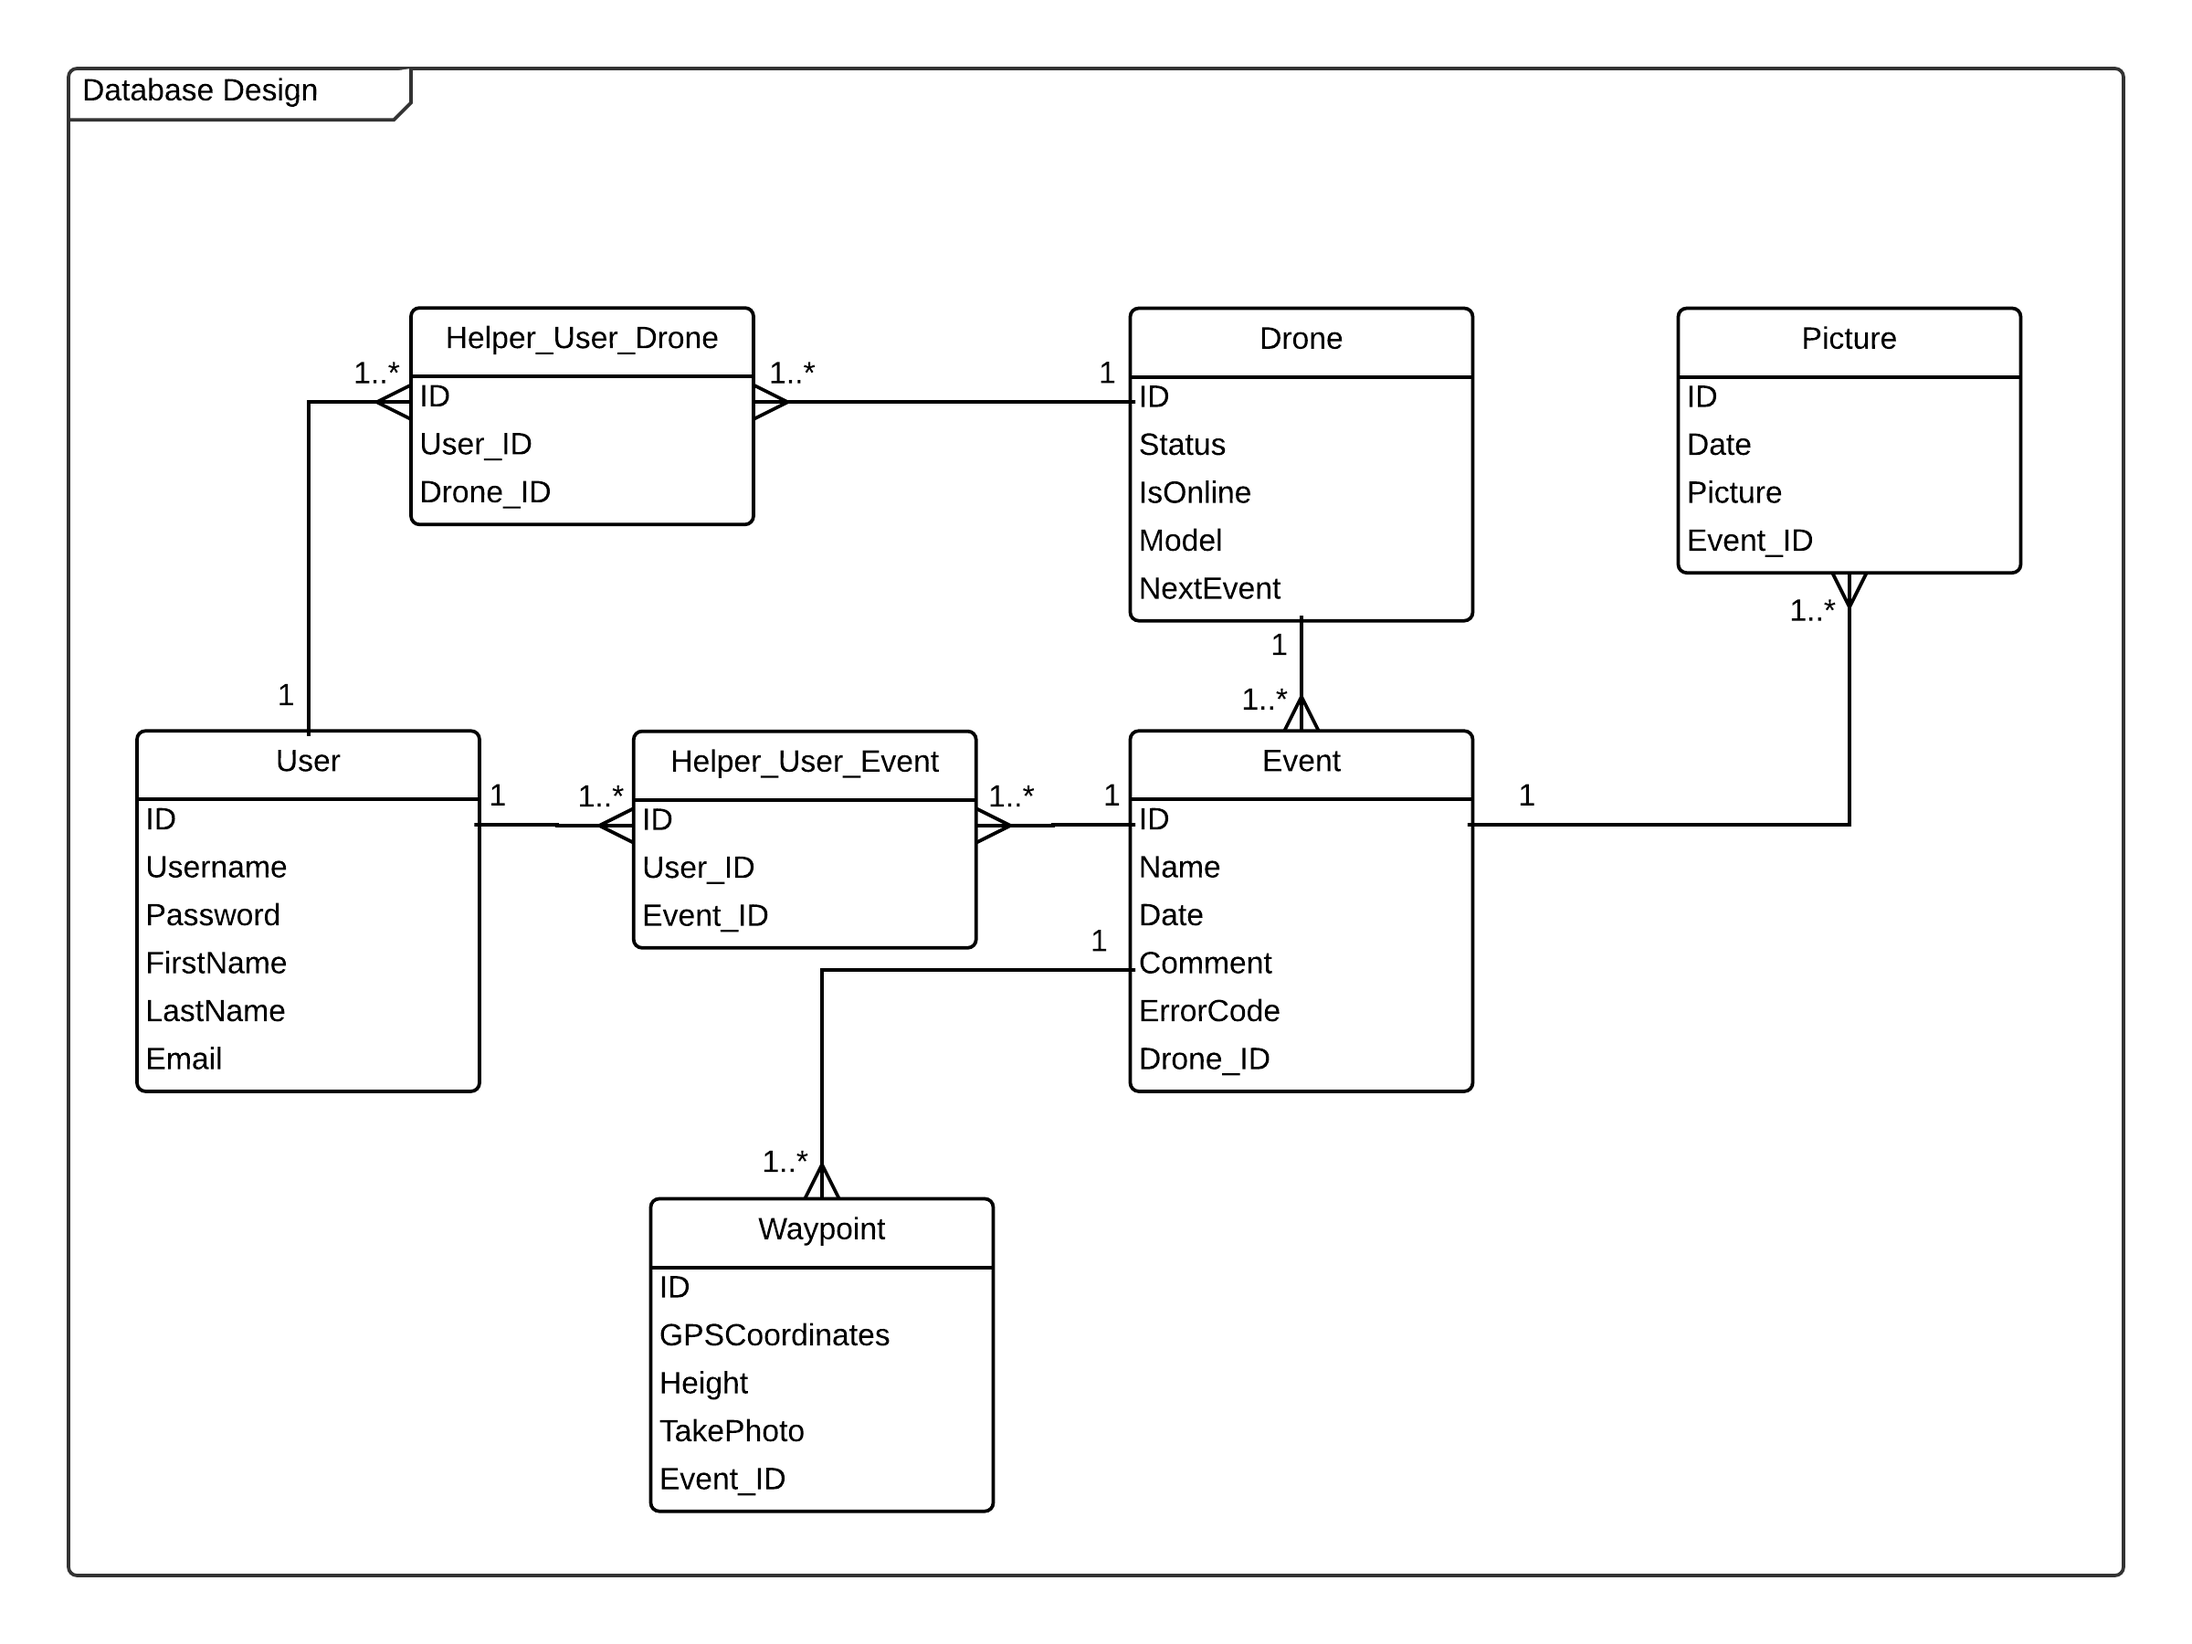
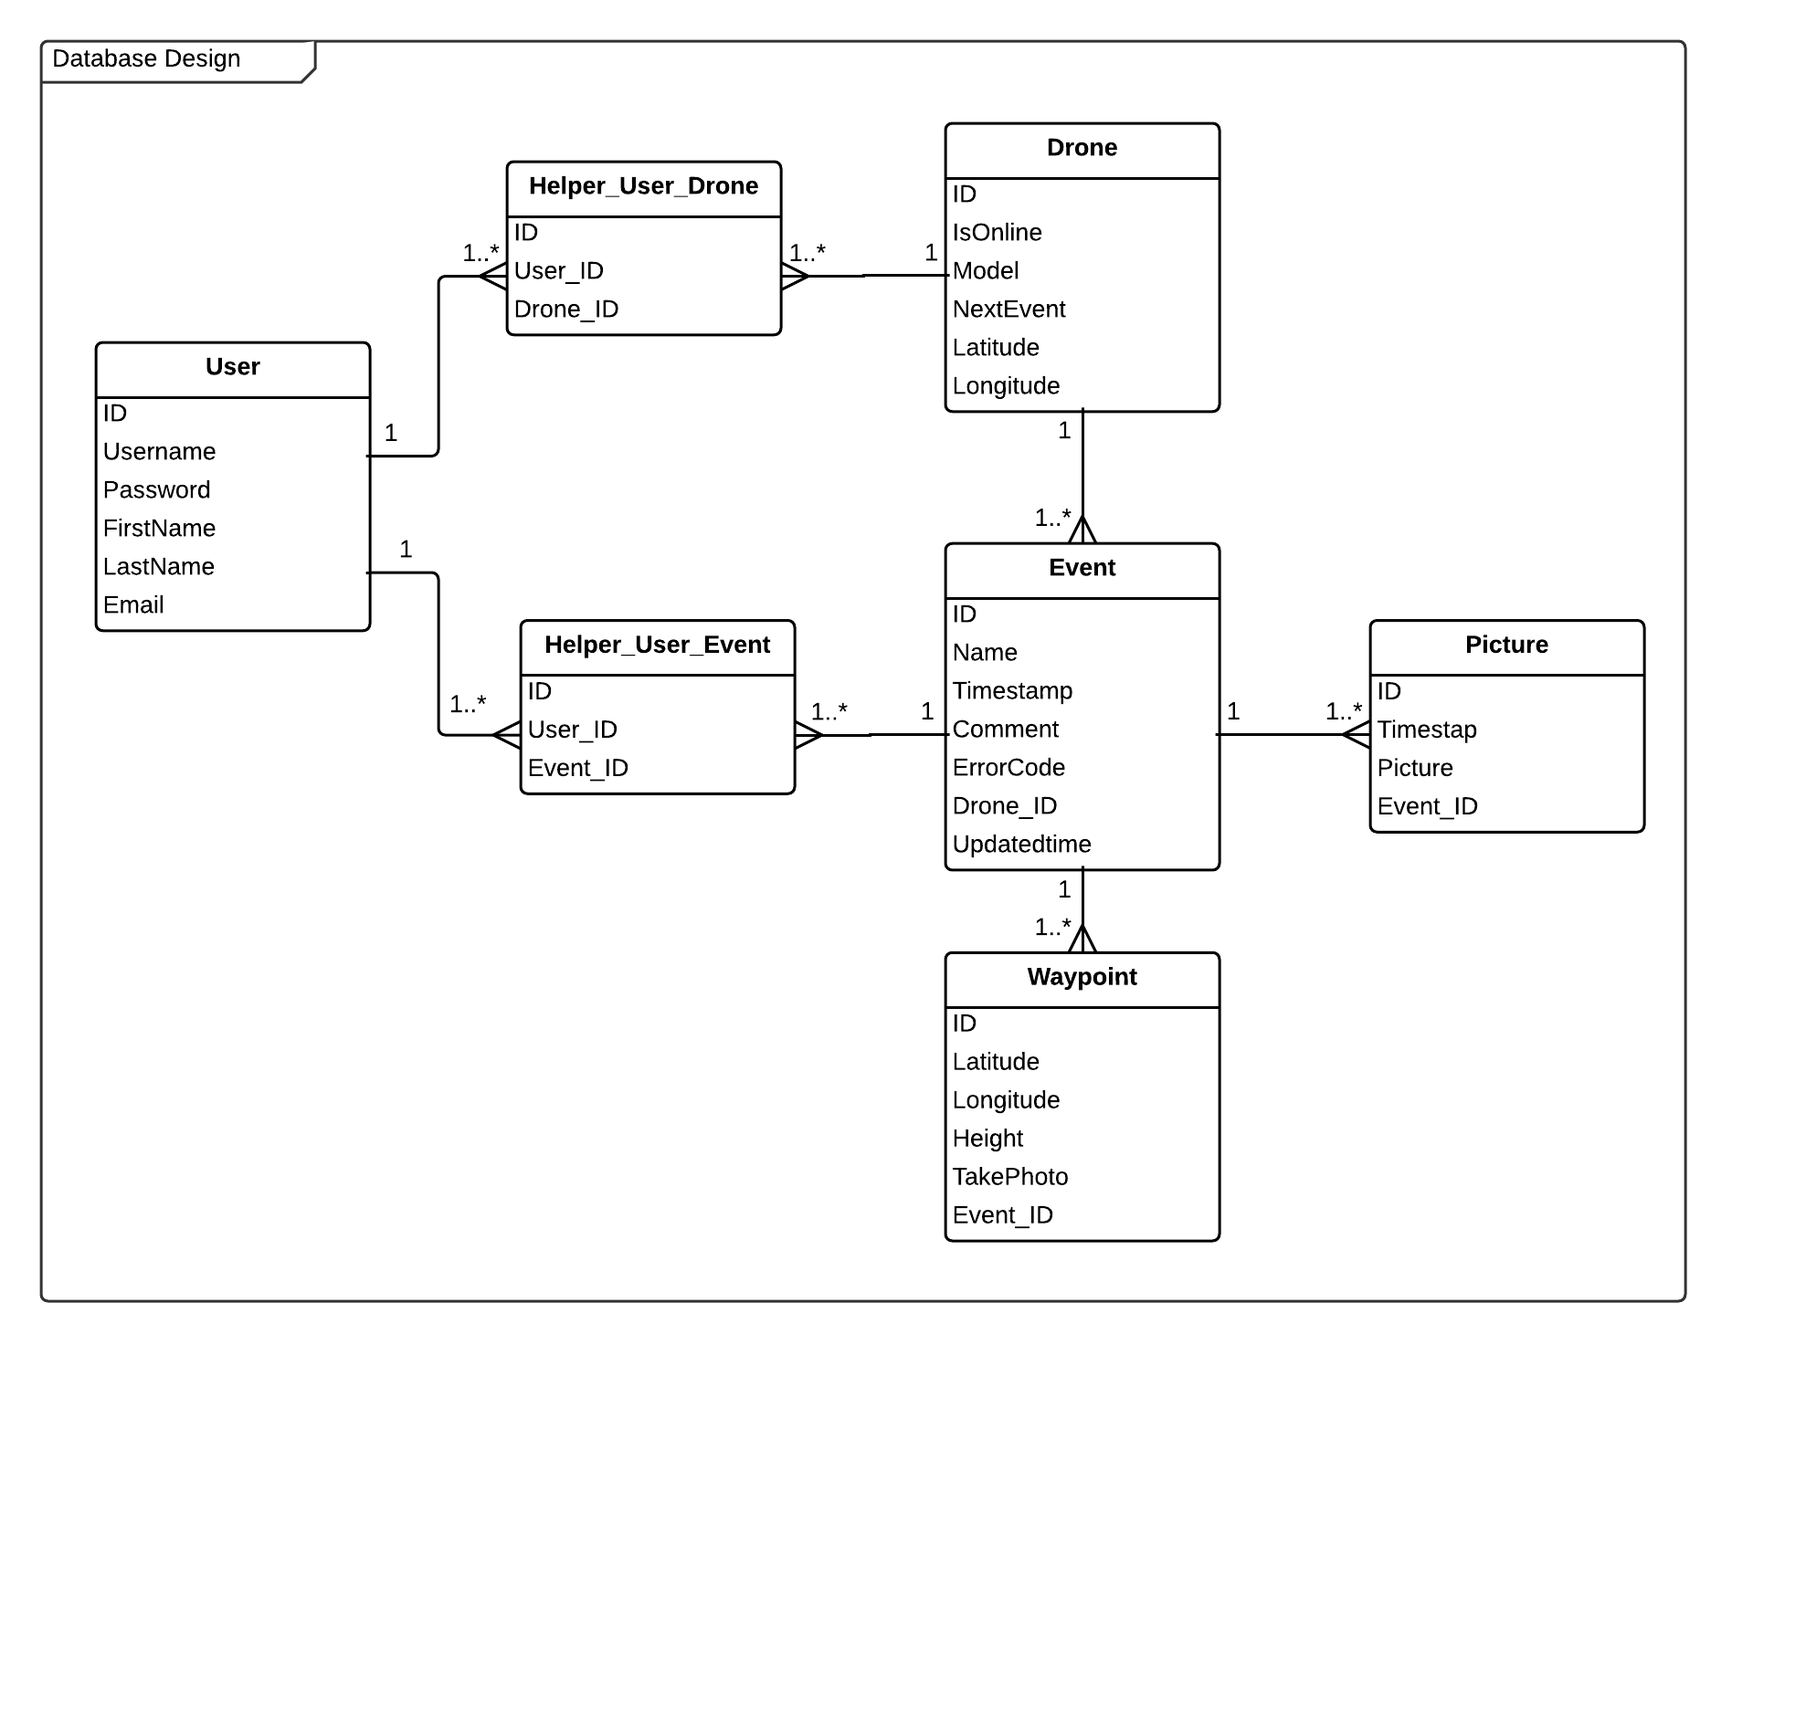
backend dokumentation iteration 1

diff --git a/5.Transition/Dokumentation/Systemarkitektur/Kapitler/database/event_table_detail.tex b/5.Transition/Dokumentation/Systemarkitektur/Kapitler/database/event_table_detail.tex
@@ -1,0 +1,30 @@
+\subsubsection{Event table}
+Tabellen indeholder data om events i systemet. Tabellen fungere som omdrejnings punkt i databasen. Droner kan tilkobles et event, billeder bliver tilføjet til et event og waypoints bliver tilføjet til et event.
+\vspace{-5pt}
+\begin{figure}[H]
+	\centering
+	\includegraphics[width=0.5\textwidth]{Billeder/database/EventTable.png}
+	\vspace{-5pt}
+	\caption{Event table}
+	\label{fig:event_table}
+\end{figure}
+
+\begin{table}[H]
+\begin{tabular}{| p{3cm}| p{11.5cm}|}
+\hline
+
+Formål	 							& Holde data om events i systemet.\\\hline
+Forbindelser						& Tabellen har en foreing key til user tabellen med en mange til mange relation. Drone-, waypoint- og picture-tabellen har foreing keys til tabellen.\\\hline
+Attributter						& \begin{itemize}
+												\item ID: Primary key.
+												\item Name: Navnet på det givet event. Max length: 100 char
+												\item Timestamp: Timestamp for oprettelse: Datefield
+												\item Updated: Timestamp for opdaterede: Datefield
+												\item Comment: Kommentar til givet event. Max length: 100 char
+												\item ErrorCode: Fejlkode hvis fejl opstår under flyvning: Integer
+												\item UserId: Mange til mange relation til user tabellen: Foreingkey
+											\end{itemize} \\\hline 
+\end{tabular}
+\caption{Event table}
+\label{tab:event_table}
+\end{table}

diff --git a/5.Transition/Dokumentation/Systemarkitektur/Kapitler/database/user_table_detail.tex b/5.Transition/Dokumentation/Systemarkitektur/Kapitler/database/user_table_detail.tex
@@ -1,0 +1,29 @@
+\subsubsection{User table}
+Tabellen indeholder data om brugerne i systemet. Tabellen giver også mulighed for brugeren at tilgå dronerne, events og de gemte ruter i systemet, via tabellens Foring keys.
+\vspace{-5pt}
+\begin{figure}[H]
+	\centering
+	\includegraphics[width=0.5\textwidth]{Billeder/database/UserTabel.png}
+	\vspace{-5pt}
+	\caption{User table}
+	\label{fig:user_table}
+\end{figure}
+
+\begin{table}[H]
+\begin{tabular}{| p{3cm}| p{11.5cm}|}
+\hline
+
+Formål	 							& Holde data om brugeren i systemet, samt tjekke om brugeren eksterre ved forsøg på login.\\\hline
+Forbindelser						& Tabellen har en Foring key til Helper User Drone og Helper User Event hjælpe tabellerne.\\\hline
+Attributter						& \begin{itemize}
+												\item ID: Primary key.
+												\item Username: Brugernavnet til systemet. Max length: 50 char
+												\item Password: Brugerens kode. Max length: 50 char
+												\item FirstName: Brugers fornavn. Max length: 50 char
+												\item LastName: Brugerens efternavn. Max length: 50 char
+												\item Email: Brugerens email adresse.
+											\end{itemize} \\\hline 
+\end{tabular}
+\caption{User table}
+\label{tab:user_table}
+\end{table}

diff --git a/5.Transition/Dokumentation/Systemarkitektur/Kapitler/database/waypoint_table_detail.tex b/5.Transition/Dokumentation/Systemarkitektur/Kapitler/database/waypoint_table_detail.tex
@@ -1,0 +1,28 @@
+\subsubsection{Waypoint table}
+Tabellen indeholder alle waypoints som brugeren har oprettet i systemet. Hvert waypoint i tabellen indeholder information om gps-koordinatet, højden og om der skal tages et billede på den givet lokation eller ej.
+\vspace{-5pt}
+\begin{figure}[H]
+	\centering
+	\includegraphics[width=0.5\textwidth]{Billeder/database/WaypointTable.png}
+	\vspace{-5pt}
+	\caption{Waypoint table}
+	\label{fig:waypoint_table}
+\end{figure}
+
+\begin{table}[H]
+\begin{tabular}{| p{3cm}| p{11.5cm}|}
+\hline
+
+Formål	 							& Holde data om waypoints i systemet.\\\hline
+Forbindelser						& Tabellen har en foreing key til event tabllen.\\\hline
+Attributter						& \begin{itemize}
+												\item ID: Primary key.
+												\item Latitude: Requried text felt. Max length: 100 char
+												\item Longitude: Requried text felt. Max length: 100 char
+												\item Height: integer
+												\item Event ID: Relation til event tabellen: Foreingkey
+											\end{itemize} \\\hline 
+\end{tabular}
+\caption{Waypoint table}
+\label{tab:waypoint_table}
+\end{table}

diff --git a/5.Transition/Dokumentation/Systemarkitektur/Kapitler/database/picture_table_detail.tex b/5.Transition/Dokumentation/Systemarkitektur/Kapitler/database/picture_table_detail.tex
@@ -1,0 +1,28 @@
+\subsubsection{Picture table}
+Tabellen indeholder data om billeder taget af dronen i systemet, samt selve billederne. Billeder bliver gemt i en blob type, som bare er binær-data i databasen.
+\vspace{-5pt}
+\begin{figure}[H]
+	\centering
+	\includegraphics[width=0.5\textwidth]{Billeder/database/PictureTable.png}
+	\vspace{-5pt}
+	\caption{Picture table}
+	\label{fig:picture_table}
+\end{figure}
+
+\begin{table}[H]
+\begin{tabular}{| p{3cm}| p{11.5cm}|}
+\hline
+
+Formål	 							& Holde data om billeder i systemet og selve billederne.\\\hline
+Forbindelser						& Tabellen har en foreing key til event tabllen.\\\hline
+Attributter						& \begin{itemize}
+												\item ID: Primary key.
+												\item Name: Navnet på det givet event. Max length: 100 char
+												\item Timestamp: Timestamp for oprettelse: Datefield
+												\item Picture: blob: Udefinerbar størrelse binær data
+												\item Event ID: Relation til event tabellen: Foreingkey
+											\end{itemize} \\\hline 
+\end{tabular}
+\caption{Picture table}
+\label{tab:picture_table}
+\end{table}

diff --git a/5.Transition/Dokumentation/Systemarkitektur/Kapitler/database/drone_table_detail.tex b/5.Transition/Dokumentation/Systemarkitektur/Kapitler/database/drone_table_detail.tex
@@ -1,0 +1,29 @@
+\subsubsection{Drone table}
+Tabellen indeholder alle droner som er oprettet i systemet. Brugeren kan oprette nye droner
+\vspace{-5pt}
+\begin{figure}[H]
+	\centering
+	\includegraphics[width=0.5\textwidth]{Billeder/database/DroneTable.png}
+	\vspace{-5pt}
+	\caption{Drone table}
+	\label{fig:drone_table}
+\end{figure}
+
+\begin{table}[H]
+\begin{tabular}{| p{3cm}| p{11.5cm}|}
+\hline
+
+Formål	 							& Holde data om billeder i systemet og selve billederne.\\\hline
+Forbindelser						& Tabellen har en foreing key til event tabllen.\\\hline
+Attributter						& \begin{itemize}
+												\item ID: Primary key.
+												\item IsOnline: Status for dronen: Boolean værdig
+												\item Model: Modeltype: Text field: Max length 50 char
+												\item NextEvent: Events for dronen: Integer field
+												\item Latitude: Dronens GPS lokation: Max length 100 char  
+												\item Longitude: Dronens GPS lokation: Max length 100 char
+											\end{itemize} \\\hline 
+\end{tabular}
+\caption{Drone table}
+\label{tab:drone_table}
+\end{table}
